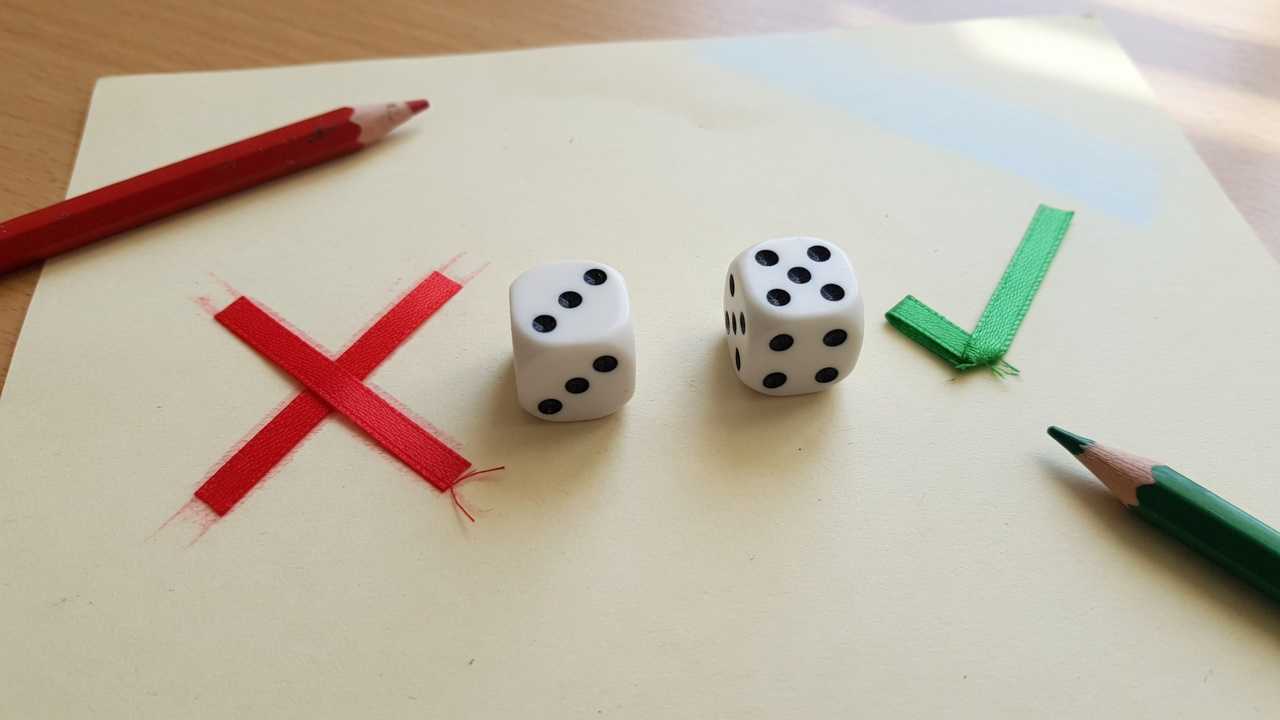
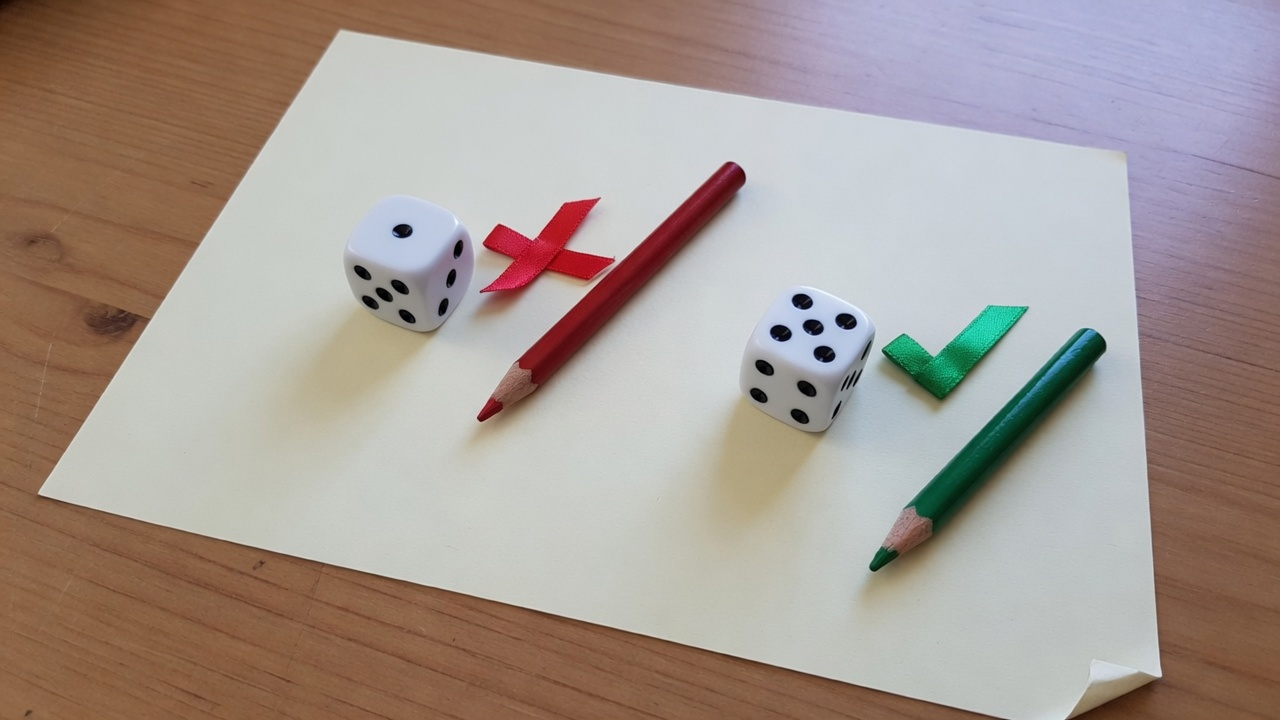
Fix step-3 even/odd photo; use tutorial BIP-39 list for lookup
Even die is now clearly 4 (keep); odd is 5 (skip). Lookup image
matches the in-app list chrome and word styling.

diff --git a/index.html b/index.html
@@ -178,7 +178,7 @@
             <img
               class="demo-img photo"
               src="images/demo-even-odd.jpg"
-              alt="Two dice on paper: odd die marked with red X, even die marked with green check"
+              alt="Odd die (5) with red X means skip; even die (4) with green check means count"
               width="640"
               height="360"
               loading="lazy"
@@ -220,7 +220,7 @@
             <img
               class="demo-img photo"
               src="images/demo-lookup.jpg"
-              alt="Finger pointing at a highlighted entry in a numbered word list"
+              alt="Tutorial-style BIP-39 list with index 517 doll highlighted"
               width="640"
               height="360"
               loading="lazy"
